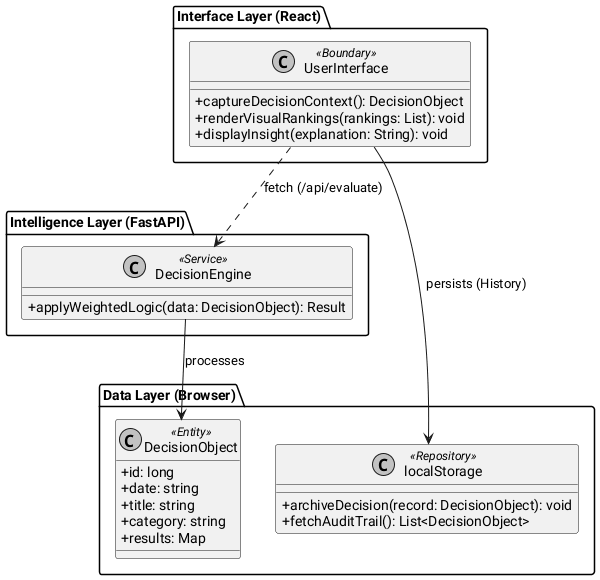
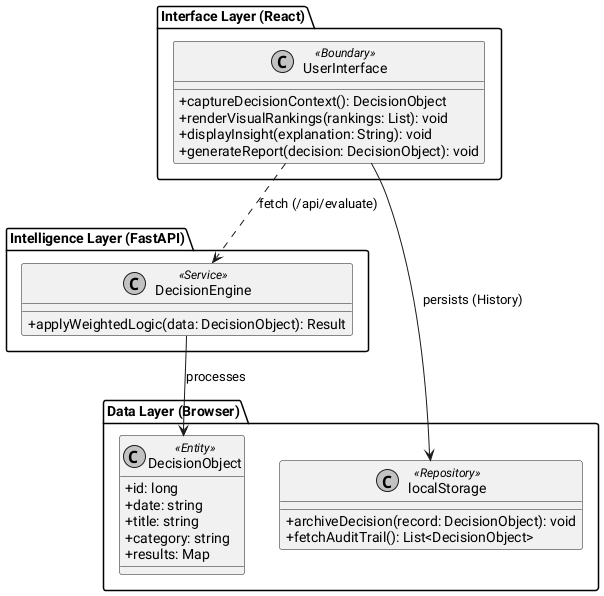
feat: add download option for decisions

Changed region(s): [[0.0, 0.0, 0.99, 0.9931]]

diff --git a/src/App.jsx b/src/App.jsx
@@ -42,6 +42,37 @@ function App() {
 		localStorage.setItem("dcs_history", JSON.stringify(updatedHistory));
 	};
 
+	// Download Decision as Text
+	const downloadDecision = (decision) => {
+		const fileName = `${decision.title.replace(/\s+/g, "_")}_Report.txt`;
+		let content = `DECISION REPORT: ${decision.title}\n`;
+		content += `Date: ${decision.date || new Date().toLocaleString()}\n`;
+		content += `Category: ${decision.category}\n`;
+		content += `------------------------------------------\n\n`;
+		content += `WINNER: ${decision.winner}\n`;
+		content += `Insight: ${decision.insight}\n\n`;
+		content += `RANKINGS:\n`;
+
+		Object.entries(decision.ranked_results).forEach(([opt, data], i) => {
+			content += `${i + 1}. ${opt} (Score: ${data.final.toFixed(2)}/10)\n`;
+			data.breakdown.forEach((b) => {
+				content += `   - ${b.criterion}: Score ${b.score}, Weight ${b.weight} (Total: ${b.weighted_score})\n`;
+			});
+			content += `\n`;
+		});
+
+		content += `------------------------------------------\n`;
+		content += `Generated by Decision Companion System`;
+
+		const element = document.createElement("a");
+		const file = new Blob([content], { type: "text/plain" });
+		element.href = URL.createObjectURL(file);
+		element.download = fileName;
+		document.body.appendChild(element);
+		element.click();
+		document.body.removeChild(element);
+	};
+
 	// Handlers for Options
 	const handleOptionChange = (index, value) => {
 		const newOptions = [...options];
@@ -131,18 +162,26 @@ function App() {
 											<span>{item.date}</span>
 										</div>
 										<p>Result: <strong>{item.winner}</strong></p>
-										<button 
-											className="small-btn"
-											onClick={() => {
-												setTitle(item.title);
-												setCategory(item.category);
-												setResults(item);
-												setViewingHistory(false);
-												setStep(5);
-											}}
-										>
-											View Details
-										</button>
+										<div className="history-actions">
+											<button 
+												className="small-btn"
+												onClick={() => {
+													setTitle(item.title);
+													setCategory(item.category);
+													setResults(item);
+													setViewingHistory(false);
+													setStep(5);
+												}}
+											>
+												View Details
+											</button>
+											<button 
+												className="small-btn secondary-btn"
+												onClick={() => downloadDecision(item)}
+											>
+												📥 Download
+											</button>
+										</div>
 									</div>
 								))}
 							</div>
@@ -378,7 +417,20 @@ function App() {
 
 						{step === 5 && results && (
 							<div className="step-content results-view">
-								<h2>📊 Results: {title}</h2>
+								<div className="results-header">
+									<h2>📊 Results: {title}</h2>
+									<button 
+										className="small-btn"
+										onClick={() => downloadDecision({
+											title,
+											category,
+											...results
+										})}
+									>
+										📥 Download Report
+									</button>
+								</div>
+								
 								<p className="insight">{results.insight}</p>
 								<div className="winner-banner">
 									✅ Recommended Choice:{" "}

diff --git a/src/App.css b/src/App.css
@@ -272,3 +272,21 @@ button:disabled {
 	font-size: 0.85rem;
 	margin-top: 0.75rem;
 }
+
+.results-header {
+	display: flex;
+	justify-content: space-between;
+	align-items: flex-start;
+	margin-bottom: 1rem;
+	gap: 1rem;
+}
+
+.results-header h2 {
+	margin-bottom: 0;
+	flex: 1;
+}
+
+.history-actions {
+	display: flex;
+	gap: 0.5rem;
+}

diff --git a/README.md b/README.md
@@ -47,6 +47,7 @@ The system was initially built as a CLI but has been migrated to a modern **Full
 
 - **Guided Onboarding Flow**: The application walks the user logically through the setup: _Define the Decision -> Establish Criteria -> Weight Criteria -> Score Options -> View Results_.
 - **Weighted Scoring Engine**: A mathematical approach where each option is scored (1-10) against each criterion, then multiplied by the criterion's weight (1-5).
+- **Decision Report Export**: Users can download a formatted `.txt` report of their results at the end of the pipeline or from their history, ensuring their rational process can be shared or archived.
 - **Audit Trail (History)**: Users can revisit past decisions at any time via the "📜 History" view, allowing for long-term accountability and review of previous rationales.
 
 ### Trade-offs
@@ -103,5 +104,5 @@ Navigate to the `diagrams/` directory and run `make` (requires `plantuml`).
 If given more time, I would consider adding:
 
 1. **Insight Generation**: Basic AI integration to provide qualitative feedback on the user's scoring.
-2. **Export to PDF/JSON**: Allow users to download their decision reports for sharing or backup.
+2. **Export to PDF/JSON**: Allow users to download their decision reports in more versatile formats (PDF/JSON).
 3. **Advanced Matrix Models**: Options for AHP (Analytic Hierarchy Process) for complex pairwise comparisons.

diff --git a/BUILD_PROCESS.md b/BUILD_PROCESS.md
@@ -43,5 +43,10 @@ Instead of forcing a cloud dependency that might fail for users in restricted ne
 2. **Privacy**: Decision data stays exclusively on the user's machine, fulfilling the "human-centric" and "private" nature of the companion.
 3. **Reduced Friction**: No account creation or login required for basic persistence, lowering the barrier to entry while still providing an "audit trail."
 
-### Conclusion: Accountability & UI
-By persisting results in the browser and building a dedicated **"📜 History"** view, we maintained the core goal of a "traceable audit trail" while delivering a more robust and private user experience than the original cloud-based plan.
+### Phase 4: Capability Expansion (Export & Reporting)
+To enhance the system's utility as a "companion," a local **Report Generator** was implemented.
+- **Goal**: Allow users to share or archive their rational process.
+- **Implementation**: A pure-frontend logic that parses the decision JSON and generates a formatted `.txt` report for instant download.
+
+### Conclusion: Accountability & UX
+By persisting results in the browser and building a dedicated **"📜 History"** and **Export** system, we maintained the core goal of a "traceable audit trail" while delivering a robust, offline-ready tool that respects user privacy and circumvents external network constraints.

diff --git a/RESEARCH_LOG.md b/RESEARCH_LOG.md
@@ -295,3 +295,7 @@ L: [II Year - DKR25 - Decision Support System.pdf](https://www.msuniv.ac.in/imag
 > **F: the build process is to include why we moved from a technology to another. include that, not remove the old choices completely**
 >
 > **A:** Updated `BUILD_PROCESS.md` to explicitly document the technology evolution: from local CLI JSON -> Supabase Cloud -> `localStorage`. Emphasized that the final pivot was driven by regional network restrictions to ensure 100% uptime and privacy.
+
+> **P: add feature to download any decisions made in the history, and the option to download the decision at the end of the pipeline (where the decision is made). update the documentation (diagram and md files) and implement it**
+>
+> **A:** Implemented a local `.txt` report generator. Added download buttons to both the Results view and the History manager. Updated all architectural diagrams and project notes to reflect the new export capabilities.

diff --git a/notes/architecture.md b/notes/architecture.md
@@ -7,6 +7,7 @@ The top layer provides an interactive "Wizard" style UI that guides users throug
 
 - **Component Wizard**: Breaks down input into five logical steps (Context, Options, Criteria, Weighting, Scoring).
 - **History Manager**: Interfaces directly with the browser's `localStorage` to persist past decisions.
+- **Export Logic**: Generates formatted `.txt` decision reports from state or history for local download.
 - **State Management**: Orchestrates complex UI states (e.g., dynamic criteria lists) before submitting them for evaluation.
 
 ## 2. Intelligence Layer (FastAPI)
